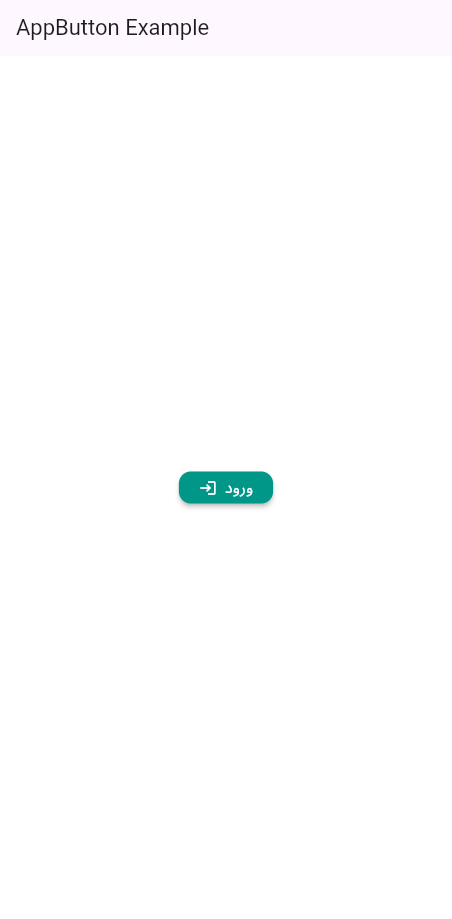
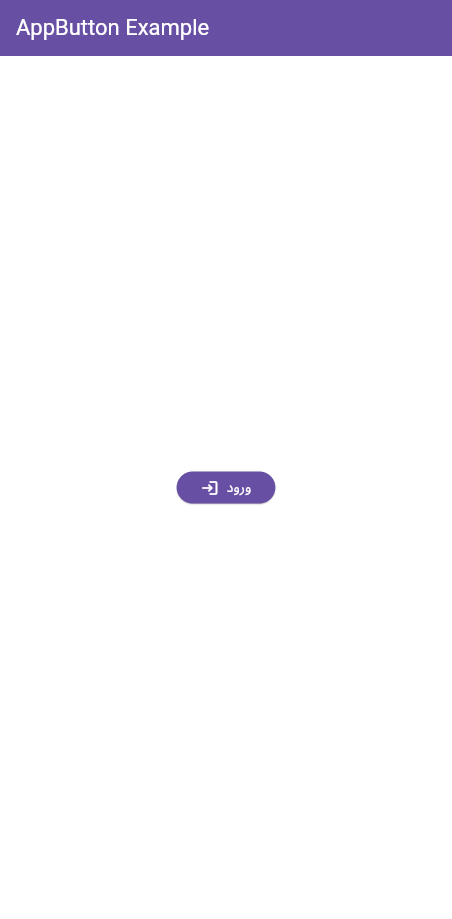
First Commit

Changed region(s): [[0.0, 0.0, 1.0, 0.0609], [0.3717, 0.4875, 0.6195, 0.5789]]

diff --git a/lib/main.dart b/lib/main.dart
@@ -14,15 +14,15 @@ class MyApp extends StatelessWidget {
       title: 'AppButton Demo',
       home: const HomeScreen(),
       debugShowCheckedModeBanner: false,
-      theme : ThemeData(
-      primaryColor: Colors.green,
-      scaffoldBackgroundColor: Colors.white,
-      elevatedButtonTheme: ElevatedButtonThemeData(
-      style: ElevatedButton.styleFrom(
-        backgroundColor: Colors.green,
-        foregroundColor: Colors.white,
-          ),
+      theme: ThemeData(
+        useMaterial3: true,
+        colorScheme: ColorScheme.fromSeed(
+          seedColor: Colors.teal,
+          primary: Colors.teal,       // رنگ دکمهها و AppBar
+          onPrimary: Colors.white,    // رنگ نوشته روی دکمه
+          background: Colors.white,   // رنگ پسزمینه
         ),
+        scaffoldBackgroundColor: Colors.white,
       ),
     );
   }
